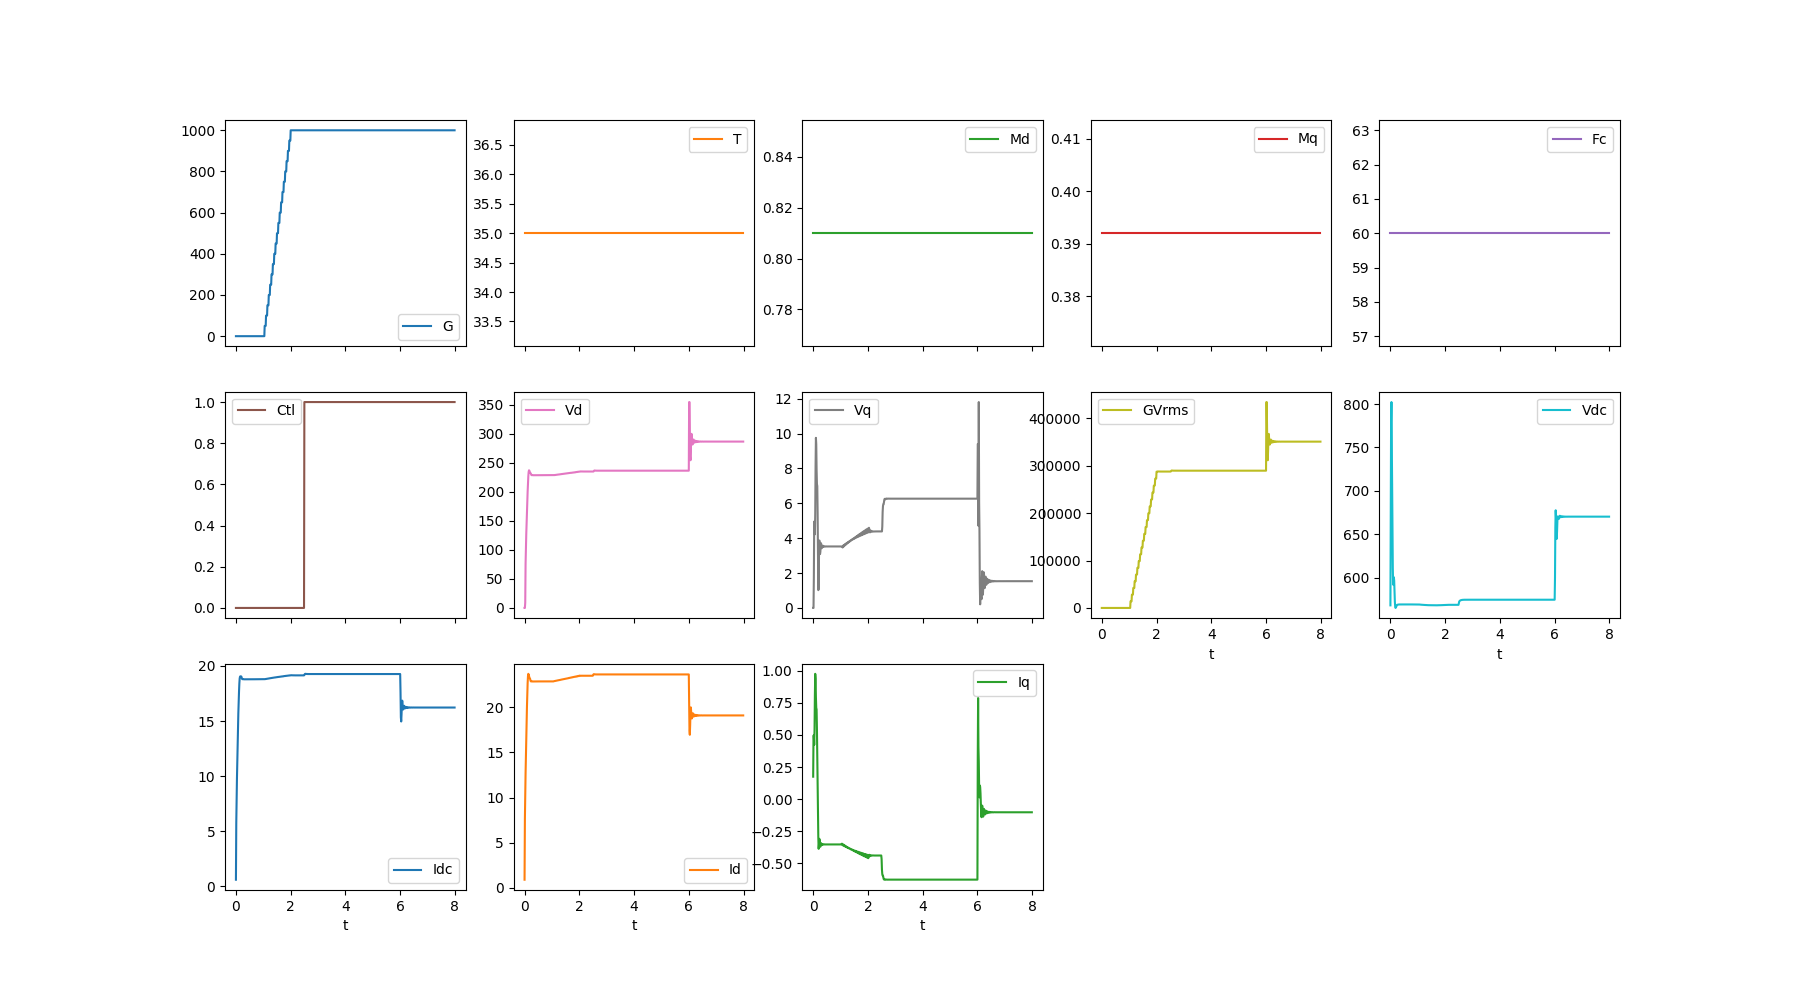
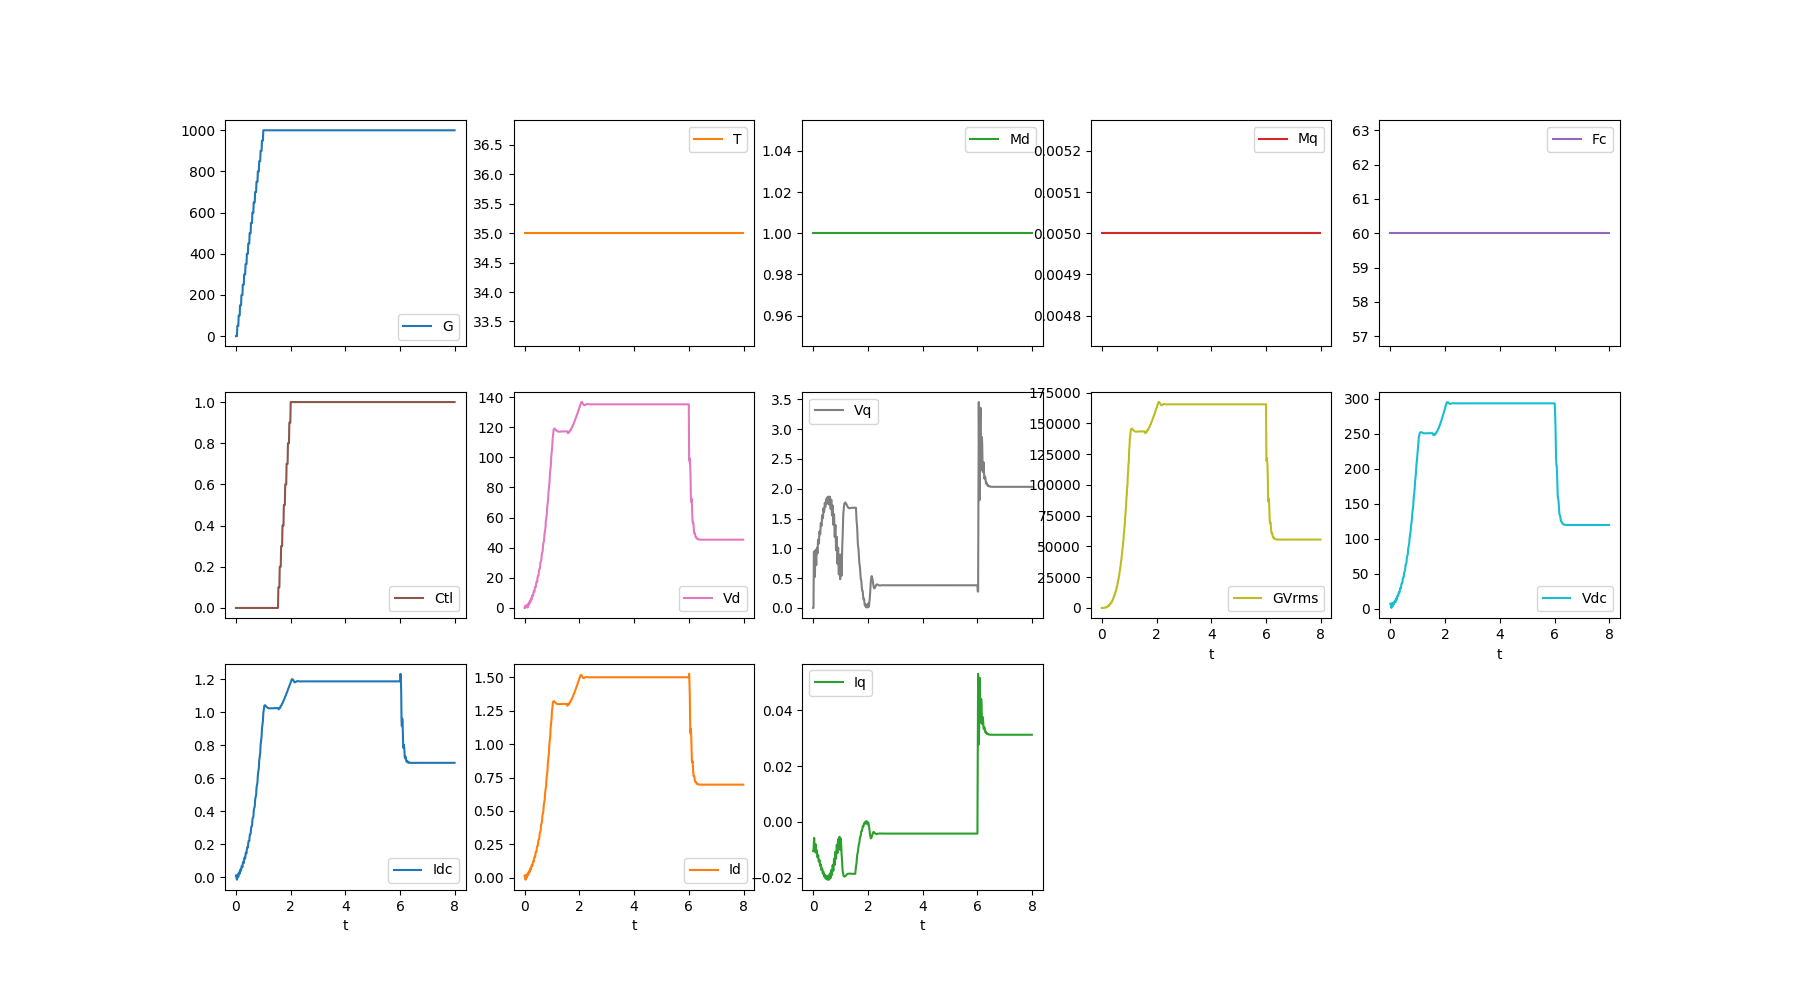
improve initialization of PV3 helics

diff --git a/src/pecblocks/pv3_poly.py b/src/pecblocks/pv3_poly.py
@@ -886,7 +886,7 @@ class pv3():
   def de_normalize (self, val, fac):
     return val * fac['scale'] + fac['offset']
 
-  def step_simulation (self, T, G, Fc, Md, Mq, Vd, Vq, GVrms, Ctl):
+  def step_simulation (self, T, G, Fc, Md, Mq, Vd, Vq, GVrms, Ctl, nsteps=1):
 #   Vc = np.complex (Vrms+0.0j)
 #   if self.Lf is not None:
 #     omega = 2.0*math.pi*Fc
@@ -909,17 +909,18 @@ class pv3():
     ub = torch.tensor ([G, Md, Mq, Vd, Vq, GVrms, Ctl], dtype=torch.float)
     with torch.no_grad():
       y_non = self.F1 (ub)
-      self.ysum[:] = 0.0
-      for i in range(self.H1.out_channels):
-        for j in range(self.H1.in_channels):
-          uh = self.uhist[i][j]
-          yh = self.yhist[i][j]
-          uh[1:] = uh[:-1]
-          uh[0] = y_non[j]
-          ynew = np.sum(np.multiply(self.b_coeff[i,j,:], uh)) - np.sum(np.multiply(self.a_coeff[i,j,:], yh))
-          yh[1:] = yh[:-1]
-          yh[0] = ynew
-          self.ysum[i] += ynew
+      for iter in range(nsteps):
+        self.ysum[:] = 0.0
+        for i in range(self.H1.out_channels):
+          for j in range(self.H1.in_channels):
+            uh = self.uhist[i][j]
+            yh = self.yhist[i][j]
+            uh[1:] = uh[:-1]
+            uh[0] = y_non[j]
+            ynew = np.sum(np.multiply(self.b_coeff[i,j,:], uh)) - np.sum(np.multiply(self.a_coeff[i,j,:], yh))
+            yh[1:] = yh[:-1]
+            yh[0] = ynew
+            self.ysum[i] += ynew
       y_lin = torch.tensor (self.ysum, dtype=torch.float)
       y_hat = self.F2 (y_lin)
 

diff --git a/examples/helics/pv3_server.py b/examples/helics/pv3_server.py
@@ -101,6 +101,7 @@ def helics_loop(cfg_filename, hdf5_filename):
   Fc = 0.0
   Ctl = 0.0
   ts = 0
+  nsteps = 100 # for initialization of the model history terms
   rows = []
 
   helics.helicsFederateEnterExecutingMode(h_fed)
@@ -124,7 +125,8 @@ def helics_loop(cfg_filename, hdf5_filename):
 
 #    print ('{:6.3f}, Vrms={:.3f}, G={:.1f}, GVrms={:.3f}, T={:.3f}, Md={:.3f}, Mq={:.3f}, Fc={:.3f}, Ctl={:.1f}'.format(ts, Vrms, G, GVrms, T, Md, Mq, Fc, Ctl))
 
-    Vdc, Idc, Id, Iq = model.step_simulation (G=G, T=T, Md=Md, Mq=Mq, Fc=Fc, Vd=Vd, Vq=Vq, Ctl=Ctl, GVrms=GVrms)
+    Vdc, Idc, Id, Iq = model.step_simulation (G=G, T=T, Md=Md, Mq=Mq, Fc=Fc, Vd=Vd, Vq=Vq, Ctl=Ctl, GVrms=GVrms, nsteps=nsteps)
+    nsteps = 1
 
     if pub_Idc is not None:
       helics.helicsPublicationPublishDouble(pub_Idc, Idc)

diff --git a/examples/helics/pv3_plot.py b/examples/helics/pv3_plot.py
@@ -1,3 +1,4 @@
+# copyright 2021-2024 Battelle Memorial Institute
 import pandas as pd
 import matplotlib.pyplot as plt
 import numpy as np
